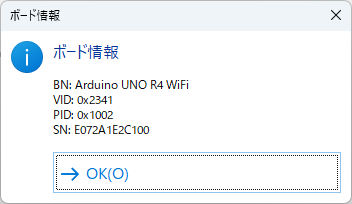
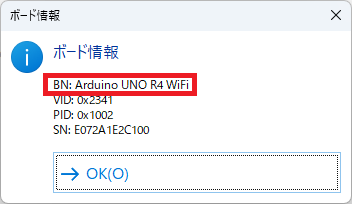
#4368_mod_手順書1章の記述を修正

Changed region(s): [[0.125, 0.3529, 0.5625, 0.4706]]

diff --git a/boards/uno_r4_wifi/Arduino_UNO_R4_WiFi編.md b/boards/uno_r4_wifi/Arduino_UNO_R4_WiFi編.md
@@ -149,7 +149,7 @@
 
 1. ボード情報を確認する。<br>
     <img src="./images/u1_install_check_08.png" width=40%><br>
-    > 確認:「Arduino UNO R4 WiFi」 のボード情報が表示できていれば、デバイスドライバのインストールが成功したことが確認できる。<br>
+    > 確認:「BN: Arduino UNO R4 WiFi」 と表示されれば、デバイスドライバのインストールが成功したことが確認できる。<br>
 
 ## 2. シリアルターミナルの使い方
 
